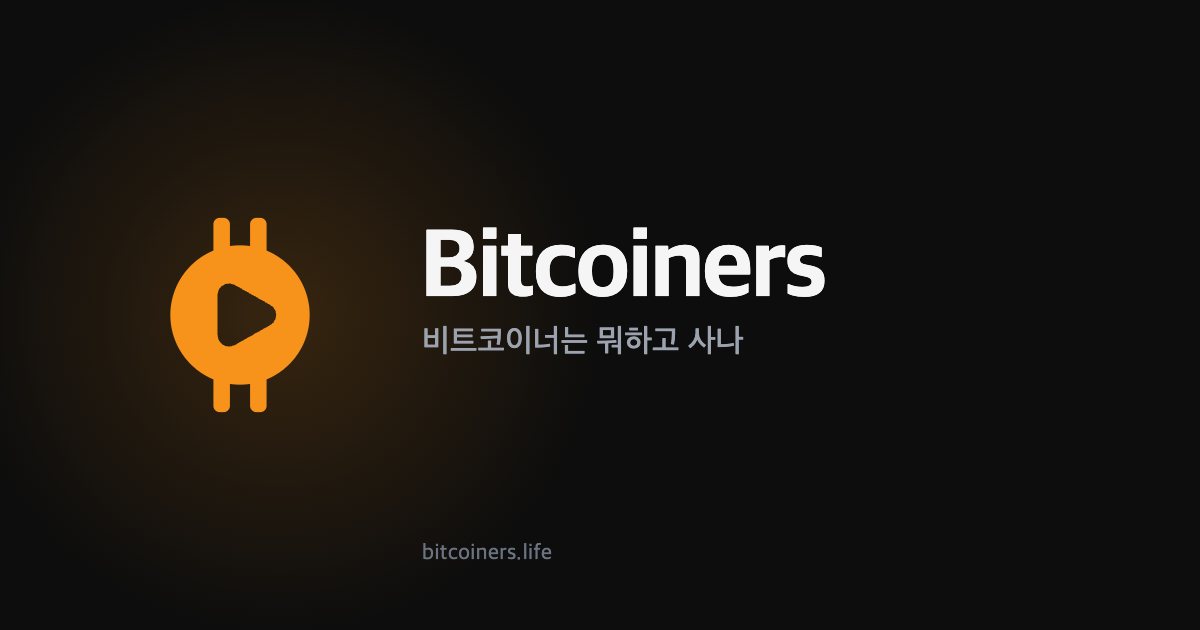
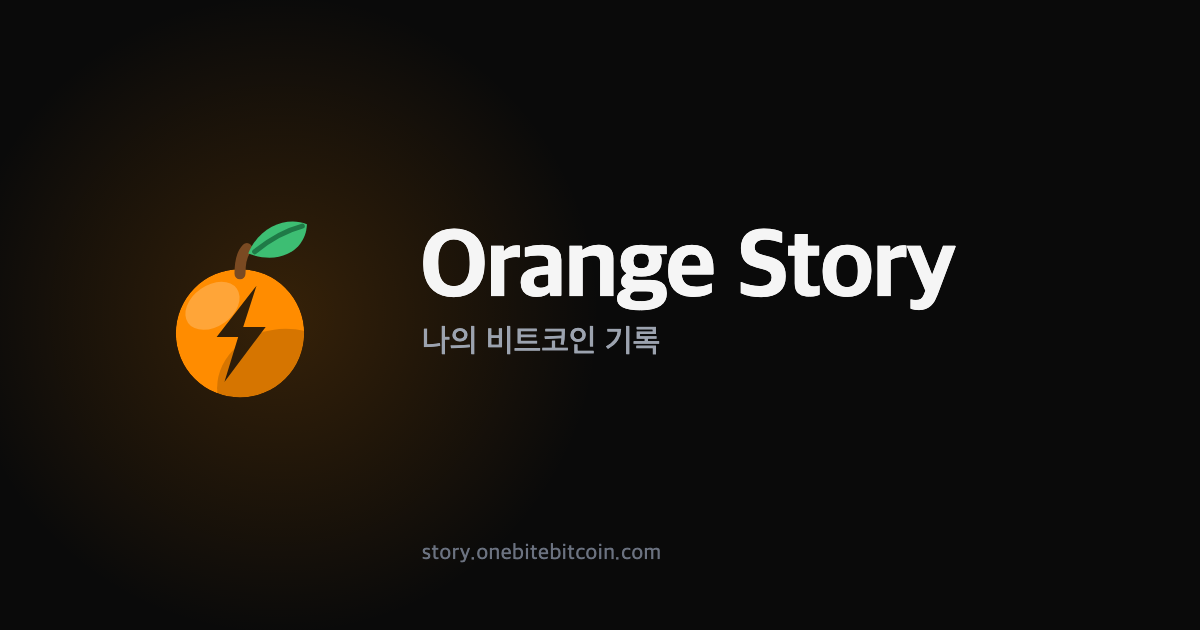
feat: 서비스 이름을 Orange Story 로, 도메인을 story.onebitebitcoin.com 으로 바꾼다
Bitcoiners 는 "vegans", "runners" 처럼 카테고리를 가리키는 일반명사형이라 이 앱만의
것으로 각인되기 어려웠다. Orange 는 비트코인 커뮤니티에서 "오렌지필(orange-pilled)"
이라는 밈으로 이미 "비트코인에 물든 사람"을 뜻해, 색상명이 아니라 정체성을 담는다.

바꾼 곳
- 화면: 워드마크 6곳, 로고 alt, 공유 시트 제목, 카테고리 주석
- 메타: title / author / og:site_name / twitter / JSON-LD(WebSite·Organization·
  WebApplication), keywords 의 "비트코이너스" → "오렌지 스토리"
- PWA manifest name·short_name, FastAPI app title, 공유 카드 설명 조립부
- i18n ko/en — 로고 alt, 지갑 가이드의 "OO에 등록", 이용약관 제1조·인트로,
  프로필 공유·초대 문구
- 모바일 앱 표시명(Android strings.xml, iOS CFBundleDisplayName), Flutter 클래스명·
  타이틀·로그 접두어, pubspec description
- 배포 스크립트의 텔레그램 알림·배너, 워커 시작 로그
- 문서: AGENTS.md, ERR_CODE.md, docs/vision.md, docs/team-vision.md
- package.json name → orange-story-frontend

도메인 story.onebitebitcoin.com
- canonical·og:url·og:image·JSON-LD @id, sitemap.xml 5개 URL, robots.txt 의
  Sitemap, llms.txt 링크, OG 이미지 하단 도메인 텍스트(SVG+PNG 재생성)
- e2e 프로덕션 스펙과 playwright 설정 2개, .env.example 2개(APP_URL 등),
  설문 시드 스크립트의 공개 베이스 URL
- 모바일 웹뷰 기본 URL과 Flutter 빌드 워크플로의 --dart-define

바꾸지 않은 것
- 인프라 식별자(/home/measly/stack-health/, stack-health-worker@N, stackhealth_app,
  com.stackhealth.app, pubspec name 등) — 서버·스토어·CI 에 묶여 있어 바꾸면
  배포나 서비스가 깨진다. 사용자에게 보이지도 않는다.
- PROGRESS.md, alembic 마이그레이션 docstring — 과거 시점 기록이라 바꾸면 이력이
  왜곡된다
- onebitebitcoin@gmail.com, github.com/onebitebitcoin/... — 대표자 개인 계정이지
  제품명이 아니다

실서버 도메인 전환(DNS·인증서·nginx·301·OAuth 재등록)은 서버 작업이라 하지 않았다.
절차는 docs/DOMAIN-CUTOVER.md 에 있다.
[…]

Changed region(s): [[0.3392, 0.3619, 0.8017, 0.573], [0.1233, 0.3317, 0.2775, 0.6635], [0.3392, 0.8444, 0.555, 0.9048]]

diff --git a/frontend/index.html b/frontend/index.html
@@ -8,43 +8,43 @@
     <meta http-equiv="Expires" content="0" />
 
     <!-- ── 기본 SEO ──────────────────────────────────────────────── -->
-    <title>Bitcoiners | 비트코이너는 뭐하고 사나</title>
-    <meta name="description" content="비트코인 공부, 라이트닝 결제, 운동, 노드 운영 — 비트코이너들이 실제로 어떻게 사는지 60초 영상으로 봅니다. 당신의 하루도 올려보세요." />
-    <meta name="keywords" content="비트코인 커뮤니티, 비트코이너, 라이트닝 결제, 비트코인 공부, 비트코인 쇼츠, 스택사츠, 비트코인 일상, 비트코이너스" />
-    <meta name="author" content="Bitcoiners" />
+    <title>Orange Story | 나의 비트코인 기록</title>
+    <meta name="description" content="비트코인 공부, 라이트닝 결제, 운동, 노드 운영 — 나의 비트코인 활동을 60초 영상으로 기록합니다. 당신의 기록도 남겨보세요." />
+    <meta name="keywords" content="비트코인 커뮤니티, 비트코이너, 라이트닝 결제, 비트코인 공부, 비트코인 쇼츠, 스택사츠, 비트코인 일상, 오렌지 스토리" />
+    <meta name="author" content="Orange Story" />
     <meta name="robots" content="index, follow, max-snippet:-1, max-image-preview:large, max-video-preview:-1" />
-    <link rel="canonical" href="https://bitcoiners.life/" />
+    <link rel="canonical" href="https://story.onebitebitcoin.com/" />
 
     <!-- ── 테마 / 아이콘 ──────────────────────────────────────────── -->
-    <meta name="theme-color" content="#0D0D0D" />
+    <meta name="theme-color" content="#0A0A0A" />
     <link rel="icon" type="image/svg+xml" href="/favicon.svg" />
     <link rel="icon" type="image/png" sizes="192x192" href="/favicon-192.png" />
     <link rel="apple-touch-icon" href="/apple-touch-icon.png" />
     <meta name="apple-mobile-web-app-capable" content="yes" />
     <meta name="apple-mobile-web-app-status-bar-style" content="black-translucent" />
-    <meta name="apple-mobile-web-app-title" content="Bitcoiners" />
+    <meta name="apple-mobile-web-app-title" content="Orange Story" />
     <meta name="mobile-web-app-capable" content="yes" />
 
     <!-- ── Open Graph (SNS / 카카오톡 / 링크 미리보기) ─────────────── -->
     <meta property="og:type" content="website" />
-    <meta property="og:site_name" content="Bitcoiners" />
+    <meta property="og:site_name" content="Orange Story" />
     <meta property="og:locale" content="ko_KR" />
-    <meta property="og:url" content="https://bitcoiners.life/" />
-    <meta property="og:title" content="Bitcoiners | 비트코이너는 뭐하고 사나" />
-    <meta property="og:description" content="비트코인 공부, 라이트닝 결제, 운동, 노드 운영 — 비트코이너들이 실제로 어떻게 사는지 60초 영상으로 봅니다." />
-    <meta property="og:image" content="https://bitcoiners.life/og-image.png" />
-    <meta property="og:image:secure_url" content="https://bitcoiners.life/og-image.png" />
+    <meta property="og:url" content="https://story.onebitebitcoin.com/" />
+    <meta property="og:title" content="Orange Story | 나의 비트코인 기록" />
+    <meta property="og:description" content="비트코인 공부, 라이트닝 결제, 운동, 노드 운영 — 나의 비트코인 활동을 60초 영상으로 기록합니다." />
+    <meta property="og:image" content="https://story.onebitebitcoin.com/og-image.png" />
+    <meta property="og:image:secure_url" content="https://story.onebitebitcoin.com/og-image.png" />
     <meta property="og:image:type" content="image/png" />
     <meta property="og:image:width" content="1200" />
     <meta property="og:image:height" content="630" />
-    <meta property="og:image:alt" content="Bitcoiners — 비트코이너는 뭐하고 사나" />
+    <meta property="og:image:alt" content="Orange Story — 나의 비트코인 기록" />
 
     <!-- ── Twitter / X 카드 ──────────────────────────────────────── -->
     <meta name="twitter:card" content="summary_large_image" />
-    <meta name="twitter:title" content="Bitcoiners | 비트코이너는 뭐하고 사나" />
-    <meta name="twitter:description" content="비트코인 공부·라이트닝 결제·운동·노드 운영. 비트코이너의 하루를 60초 영상으로." />
-    <meta name="twitter:image" content="https://bitcoiners.life/og-image.png" />
-    <meta name="twitter:image:alt" content="Bitcoiners — 비트코이너는 뭐하고 사나" />
+    <meta name="twitter:title" content="Orange Story | 나의 비트코인 기록" />
+    <meta name="twitter:description" content="비트코인 공부·라이트닝 결제·운동·노드 운영. 나의 비트코인 기록을 60초 영상으로." />
+    <meta name="twitter:image" content="https://story.onebitebitcoin.com/og-image.png" />
+    <meta name="twitter:image:alt" content="Orange Story — 나의 비트코인 기록" />
 
     <!-- ── JSON-LD Structured Data ─────────────────────────────── -->
     <script type="application/ld+json">
@@ -53,41 +53,41 @@
       "@graph": [
         {
           "@type": "WebSite",
-          "@id": "https://bitcoiners.life/#website",
-          "url": "https://bitcoiners.life/",
-          "name": "Bitcoiners",
-          "description": "비트코이너의 하루를 60초 영상으로 공유하는 커뮤니티",
+          "@id": "https://story.onebitebitcoin.com/#website",
+          "url": "https://story.onebitebitcoin.com/",
+          "name": "Orange Story",
+          "description": "나의 비트코인 기록을 60초 영상으로 남기고 나누는 서비스",
           "inLanguage": "ko-KR",
           "potentialAction": {
             "@type": "SearchAction",
             "target": {
               "@type": "EntryPoint",
-              "urlTemplate": "https://bitcoiners.life/?q={search_term_string}"
+              "urlTemplate": "https://story.onebitebitcoin.com/?q={search_term_string}"
             },
             "query-input": "required name=search_term_string"
           }
         },
         {
           "@type": "Organization",
-          "@id": "https://bitcoiners.life/#organization",
-          "name": "Bitcoiners",
-          "url": "https://bitcoiners.life/",
+          "@id": "https://story.onebitebitcoin.com/#organization",
+          "name": "Orange Story",
+          "url": "https://story.onebitebitcoin.com/",
           "logo": {
             "@type": "ImageObject",
-            "url": "https://bitcoiners.life/favicon-192.png",
+            "url": "https://story.onebitebitcoin.com/favicon-192.png",
             "width": 192,
             "height": 192
           },
-          "description": "비트코인 공부, 라이트닝 결제, 운동, 노드 운영 — 비트코이너의 하루를 기록하고 나누는 커뮤니티",
+          "description": "비트코인 공부, 라이트닝 결제, 운동, 노드 운영 — 나의 비트코인 기록을 남기고 나누는 서비스",
           "sameAs": [
-            "https://bitcoiners.life/team"
+            "https://story.onebitebitcoin.com/team"
           ]
         },
         {
           "@type": "WebApplication",
-          "@id": "https://bitcoiners.life/#webapp",
-          "name": "Bitcoiners",
-          "url": "https://bitcoiners.life/",
+          "@id": "https://story.onebitebitcoin.com/#webapp",
+          "name": "Orange Story",
+          "url": "https://story.onebitebitcoin.com/",
           "applicationCategory": "SocialNetworkingApplication",
           "operatingSystem": "Web, Android, iOS",
           "offers": {
@@ -95,9 +95,9 @@
             "price": "0",
             "priceCurrency": "KRW"
           },
-          "description": "비트코이너의 하루를 60초 영상으로 올리고 보는 소셜 플랫폼. 비트코인 공부·라이트닝 결제·운동·노드 운영 기록과 챌린지.",
+          "description": "나의 비트코인 기록을 60초 영상으로 올리고 보는 소셜 플랫폼. 비트코인 공부·라이트닝 결제·운동·노드 운영 기록과 챌린지.",
           "featureList": [
-            "비트코이너의 하루 60초 영상 기록",
+            "나의 비트코인 기록 60초 영상으로 남기기",
             "비트코인 공부·라이트닝 결제·노드 운영 인증",
             "커뮤니티 피드",
             "기록 히스토리와 스트릭",
@@ -105,7 +105,7 @@
           ],
           "inLanguage": "ko-KR",
           "publisher": {
-            "@id": "https://bitcoiners.life/#organization"
+            "@id": "https://story.onebitebitcoin.com/#organization"
           }
         }
       ]

diff --git a/frontend/e2e/00-brand.spec.ts b/frontend/e2e/00-brand.spec.ts
@@ -4,20 +4,20 @@ test.describe('브랜드 공유 패키지', () => {
   test('정적 메타데이터와 공유 이미지 자산을 제공한다', async ({ page }) => {
     await page.goto('/login')
 
-    await expect(page).toHaveTitle('Bitcoiners | 비트코이너는 뭐하고 사나')
+    await expect(page).toHaveTitle('Orange Story | 나의 비트코인 기록')
     await expect(page.locator('meta[name="description"]')).toHaveAttribute(
       'content',
-      '비트코인 공부, 라이트닝 결제, 운동, 노드 운영 — 비트코이너들이 실제로 어떻게 사는지 60초 영상으로 봅니다. 당신의 하루도 올려보세요.',
+      '비트코인 공부, 라이트닝 결제, 운동, 노드 운영 — 나의 비트코인 활동을 60초 영상으로 기록합니다. 당신의 기록도 남겨보세요.',
     )
     await expect(page.locator('meta[property="og:title"]')).toHaveAttribute(
       'content',
-      'Bitcoiners | 비트코이너는 뭐하고 사나',
+      'Orange Story | 나의 비트코인 기록',
     )
     await expect(page.locator('meta[property="og:description"]')).toHaveAttribute(
       'content',
-      '비트코인 공부, 라이트닝 결제, 운동, 노드 운영 — 비트코이너들이 실제로 어떻게 사는지 60초 영상으로 봅니다.',
+      '비트코인 공부, 라이트닝 결제, 운동, 노드 운영 — 나의 비트코인 활동을 60초 영상으로 기록합니다.',
     )
-    await expect(page.locator('meta[property="og:image"]')).toHaveAttribute('content', 'https://bitcoiners.life/og-image.png')
+    await expect(page.locator('meta[property="og:image"]')).toHaveAttribute('content', 'https://story.onebitebitcoin.com/og-image.png')
     await expect(page.locator('meta[property="og:type"]')).toHaveAttribute('content', 'website')
     await expect(page.locator('meta[name="twitter:card"]')).toHaveAttribute('content', 'summary_large_image')
     await expect(page.locator('link[rel="icon"]').first()).toHaveAttribute('href', '/favicon.svg')
@@ -30,7 +30,7 @@ test.describe('브랜드 공유 패키지', () => {
   test('로그인 첫 화면에 로고를 노출한다', async ({ page }) => {
     await page.goto('/login')
 
-    await expect(page.getByLabel('Bitcoiners 로고')).toBeVisible()
+    await expect(page.getByLabel('Orange Story 로고')).toBeVisible()
     await expect(page.locator('text=이메일로 로그인')).toBeVisible()
   })
 })

diff --git a/frontend/src/pages/SetupUsernamePage.tsx b/frontend/src/pages/SetupUsernamePage.tsx
@@ -144,7 +144,7 @@ export default function SetupUsernamePage() {
       <div className="mb-4 flex h-16 w-16 items-center justify-center rounded-card bg-theme-surface text-accent">
         <LogoMark aria-label={t('logoAlt')} role="img" size={40} />
       </div>
-      <p className="mb-1 text-label font-bold tracking-[0.28em] text-accent uppercase">Bitcoiners</p>
+      <p className="mb-1 text-label font-bold tracking-[0.28em] text-accent uppercase">Orange Story</p>
       <p className="mb-8 text-body text-theme-muted">{t('setupProfileTitle')}</p>
 
       <div className="w-full max-w-sm">
@@ -164,7 +164,7 @@ export default function SetupUsernamePage() {
             </label>
             <label
               htmlFor="setup-avatar-input"
-              className={`absolute -bottom-1 -right-1 flex h-7 w-7 items-center justify-center rounded-pill bg-accent text-accent-fg shadow-md ${uploading ? 'pointer-events-none opacity-60' : 'cursor-pointer'}`}
+              className={`absolute -bottom-1 -right-1 flex h-7 w-7 items-center justify-center rounded-pill bg-accent text-accent-fg shadow-pop ${uploading ? 'pointer-events-none opacity-60' : 'cursor-pointer'}`}
             >
               {uploading ? (
                 <div className="h-3.5 w-3.5 animate-spin rounded-pill border-2 border-accent-fg border-t-transparent" />

diff --git a/mobile/lib/main.dart b/mobile/lib/main.dart
@@ -9,22 +9,22 @@ import 'package:file_picker/file_picker.dart';
 
 const String kAppUrl = String.fromEnvironment(
   'APP_URL',
-  defaultValue: 'https://bitcoiners.life',
+  defaultValue: 'https://story.onebitebitcoin.com',
 );
 
 void main() {
   WidgetsFlutterBinding.ensureInitialized();
   SystemChrome.setPreferredOrientations([DeviceOrientation.portraitUp]);
-  runApp(const BitcoinersApp());
+  runApp(const OrangeStoryApp());
 }
 
-class BitcoinersApp extends StatelessWidget {
-  const BitcoinersApp({super.key});
+class OrangeStoryApp extends StatelessWidget {
+  const OrangeStoryApp({super.key});
 
   @override
   Widget build(BuildContext context) {
     return MaterialApp(
-      title: 'Bitcoiners',
+      title: 'Orange Story',
       debugShowCheckedModeBanner: false,
       theme: ThemeData(
         colorScheme: ColorScheme.fromSeed(
@@ -52,7 +52,7 @@ class _WebViewPageState extends State<WebViewPage> {
   Timer? _loadTimeout;
   late final StreamSubscription<List<ConnectivityResult>> _connectivitySub;
 
-  void _log(String msg) => debugPrint('[Bitcoiners] $msg');
+  void _log(String msg) => debugPrint('[Orange Story] $msg');
 
   @override
   void initState() {

diff --git a/frontend/src/pages/SharedVideoPage.tsx b/frontend/src/pages/SharedVideoPage.tsx
@@ -46,7 +46,7 @@ export default function SharedVideoPage() {
   useEffect(() => {
     if (!post) return
 
-    const title = `@${post.username} - Bitcoiners`
+    const title = `@${post.username} - Orange Story`
     const description = post.caption ?? t('appTagline')
     const image = post.thumbnail_url ?? `${window.location.origin}/og-image.png`
 
@@ -63,7 +63,7 @@ export default function SharedVideoPage() {
     setMetaName('twitter:card', 'player')
 
     return () => {
-      document.title = `Bitcoiners | ${t('appTagline')}`
+      document.title = `Orange Story | ${t('appTagline')}`
     }
   }, [post, t])
 
@@ -83,7 +83,7 @@ export default function SharedVideoPage() {
         </button>
         <div className="flex items-center gap-2">
           <Target size={16} color="white" />
-          <span className="text-body font-semibold text-white">Bitcoiners</span>
+          <span className="text-body font-semibold text-white">Orange Story</span>
         </div>
         <div className="w-9" />
       </div>

diff --git a/frontend/vite.config.ts b/frontend/vite.config.ts
@@ -38,12 +38,12 @@ export default defineConfig({
       includeAssets: ['favicon.svg', 'favicon-192.png', 'apple-touch-icon.png'],
       manifest: {
         id: '/',
-        name: 'Bitcoiners',
-        short_name: 'Bitcoiners',
+        name: 'Orange Story',
+        short_name: 'Orange Story',
         description:
-          '비트코이너는 뭐하고 사나 — 비트코인 공부, 라이트닝 결제, 운동, 노드 운영을 60초 영상으로 기록하고 공유하는 커뮤니티',
-        theme_color: '#0D0D0D',
-        background_color: '#0D0D0D',
+          '나의 비트코인 기록 — 비트코인 공부, 라이트닝 결제, 운동, 노드 운영을 60초 영상으로 기록하고 공유하는 서비스',
+        theme_color: '#0A0A0A',
+        background_color: '#0A0A0A',
         display: 'standalone',
         orientation: 'portrait',
         scope: '/',

diff --git a/frontend/src/components/VideoCard.tsx b/frontend/src/components/VideoCard.tsx
@@ -345,7 +345,7 @@ export default function VideoCard({ post, onLoginRequired, onCommentClick, isMut
                 .then(() => toast.success(t('shareCopied')))
                 .catch(() => toast(t('shareLinkFallback') + shareUrl))
             if (typeof navigator !== 'undefined' && 'share' in navigator) {
-              navigator.share({ title: 'Bitcoiners', text: shareMessage })
+              navigator.share({ title: 'Orange Story', text: shareMessage })
                 .catch((err) => { if (!(err instanceof DOMException && err.name === 'AbortError')) copyToClipboard() })
             } else {
               copyToClipboard()

diff --git a/frontend/e2e/prod-e2e.spec.ts b/frontend/e2e/prod-e2e.spec.ts
@@ -1,5 +1,5 @@
 /**
- * Production E2E tests against https://bitcoiners.life
+ * Production E2E tests against https://story.onebitebitcoin.com
  * Run: npx playwright test --config=playwright.production.config.ts
  *
  * Uses email signup so Google OAuth is not needed.
@@ -11,7 +11,7 @@ import path from 'path'
 const __filename = fileURLToPath(import.meta.url)
 const __dirname = path.dirname(__filename)
 
-const PROD_URL = 'https://bitcoiners.life'
+const PROD_URL = 'https://story.onebitebitcoin.com'
 const SCREENSHOT_DIR = 'e2e/screenshots/prod'
 const TEST_VIDEO = path.resolve(__dirname, 'fixtures/test-workout.mp4')
 

diff --git a/frontend/src/pages/LightningLoginPage.tsx b/frontend/src/pages/LightningLoginPage.tsx
@@ -93,7 +93,7 @@ export default function LightningLoginPage() {
       <div className="mb-2 flex h-16 w-16 items-center justify-center rounded-card bg-theme-surface text-accent">
         <LogoMark aria-label={t('logoAlt')} role="img" size={40} />
       </div>
-      <p className="mb-1 text-display text-accent">Bitcoiners</p>
+      <p className="mb-1 text-display font-display text-accent">Orange Story</p>
       <p className="mb-8 text-body text-theme-muted">{t('lightningLoginTitle')}</p>
 
       <div className="w-full max-w-sm flex flex-col gap-4">

diff --git a/frontend/playwright.config.ts b/frontend/playwright.config.ts
@@ -6,7 +6,7 @@ const BACKEND_PORT = Number(process.env.E2E_BACKEND_PORT ?? 8173)
 
 export default defineConfig({
   testDir: './e2e',
-  // prod-*.spec.ts 는 https://bitcoiners.life 운영 사이트에 직접 붙어 계정을 만들고
+  // prod-*.spec.ts 는 https://story.onebitebitcoin.com 운영 사이트에 직접 붙어 계정을 만들고
   // 영상을 업로드한다. 반드시 playwright.production.config.ts 로만 실행한다.
   testIgnore: ['**/media-recorder-merge.spec.ts', '**/prod-*.spec.ts'],
   fullyParallel: false,

diff --git a/frontend/src/pages/EmailLoginPage.tsx b/frontend/src/pages/EmailLoginPage.tsx
@@ -40,7 +40,7 @@ export default function EmailLoginPage() {
       <div className="mb-2 flex h-16 w-16 items-center justify-center rounded-card bg-theme-surface text-accent">
         <LogoMark aria-label={t('logoAlt')} role="img" size={40} />
       </div>
-      <p className="mb-1 text-display text-accent">Bitcoiners</p>
+      <p className="mb-1 text-display font-display text-accent">Orange Story</p>
       <p className="mb-8 text-body text-theme-muted">{t('emailLoginTitle')}</p>
 
       <div className="w-full max-w-sm">

diff --git a/frontend/src/pages/RegisterPage.tsx b/frontend/src/pages/RegisterPage.tsx
@@ -66,7 +66,7 @@ export default function RegisterPage() {
       <div className="mb-2 flex h-16 w-16 items-center justify-center rounded-card bg-theme-surface text-accent">
         <LogoMark aria-label={t('logoAlt')} role="img" size={40} />
       </div>
-      <p className="mb-1 text-display text-accent">Bitcoiners</p>
+      <p className="mb-1 text-display font-display text-accent">Orange Story</p>
       <p className="mb-8 text-body text-theme-muted">{t('registerTitle')}</p>
 
       <div className="w-full max-w-sm">
